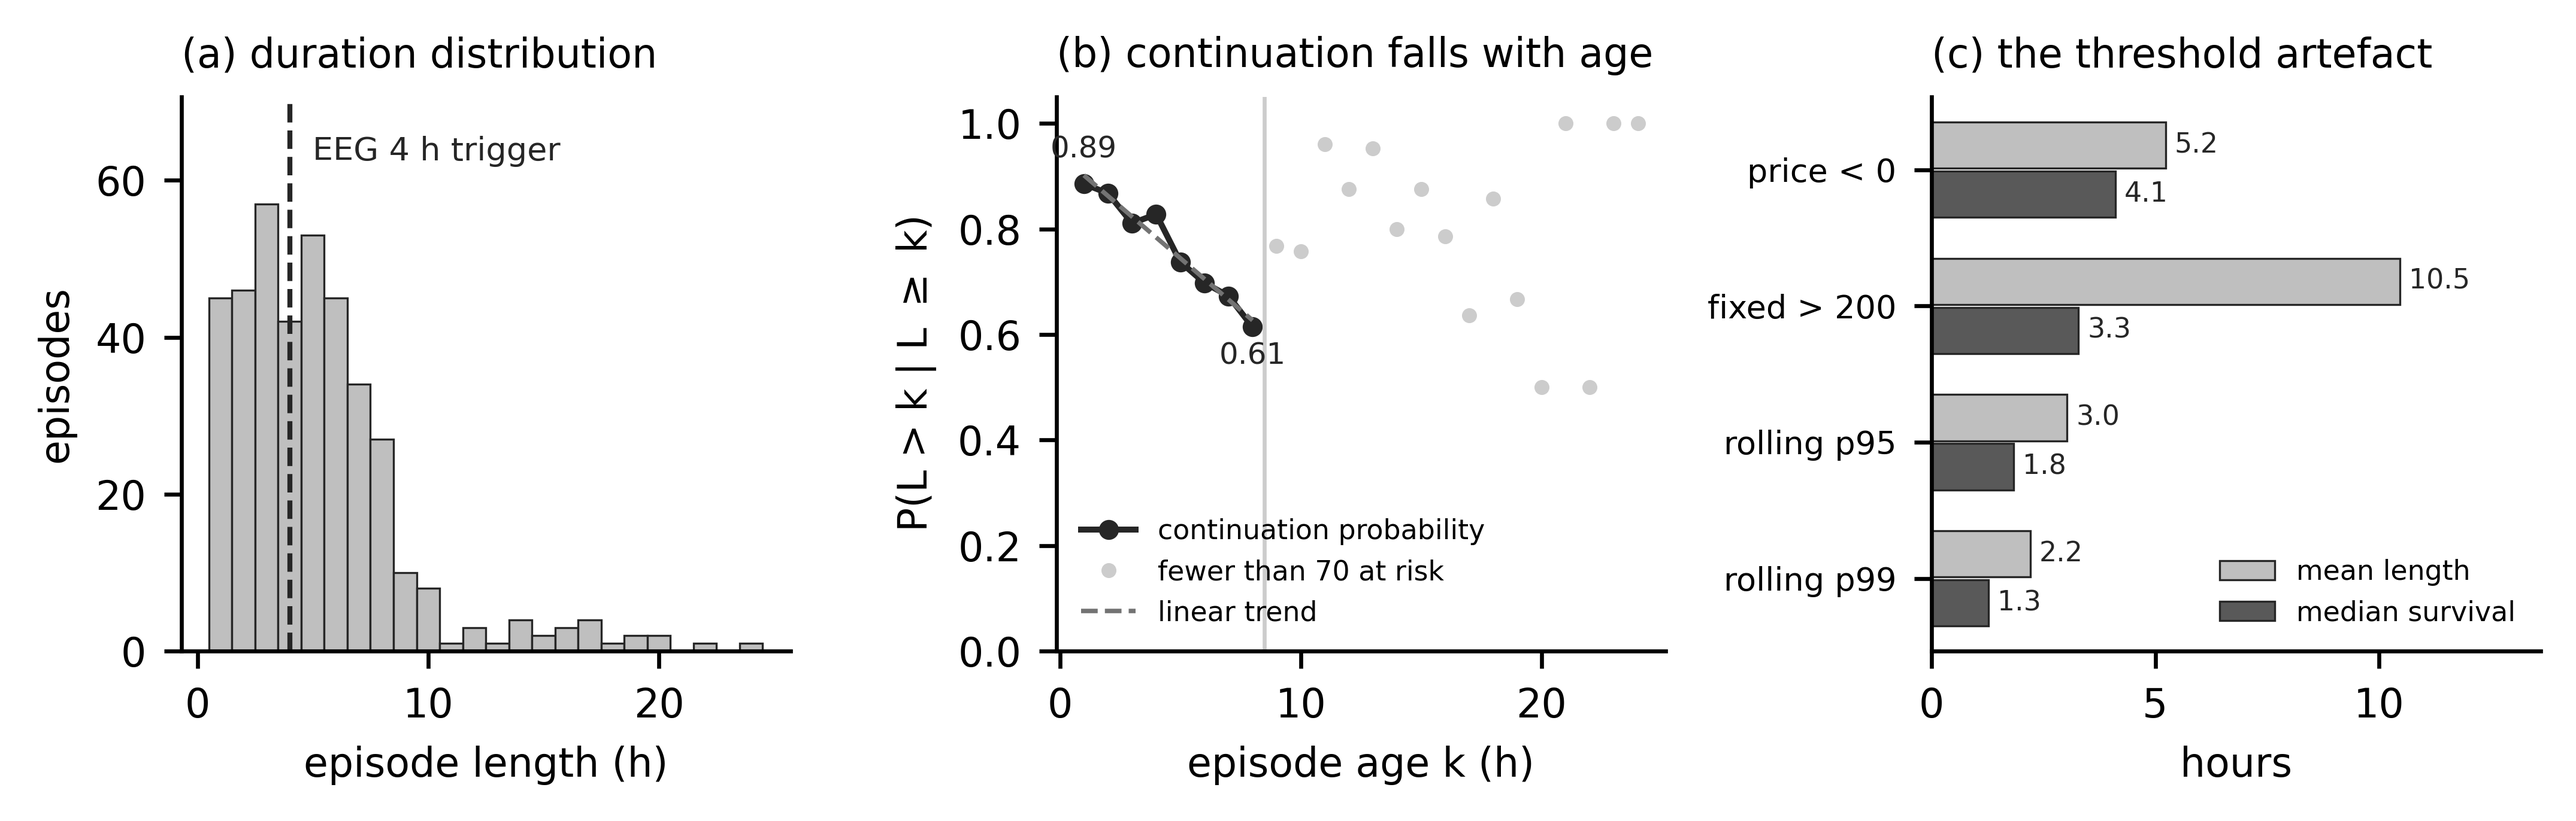
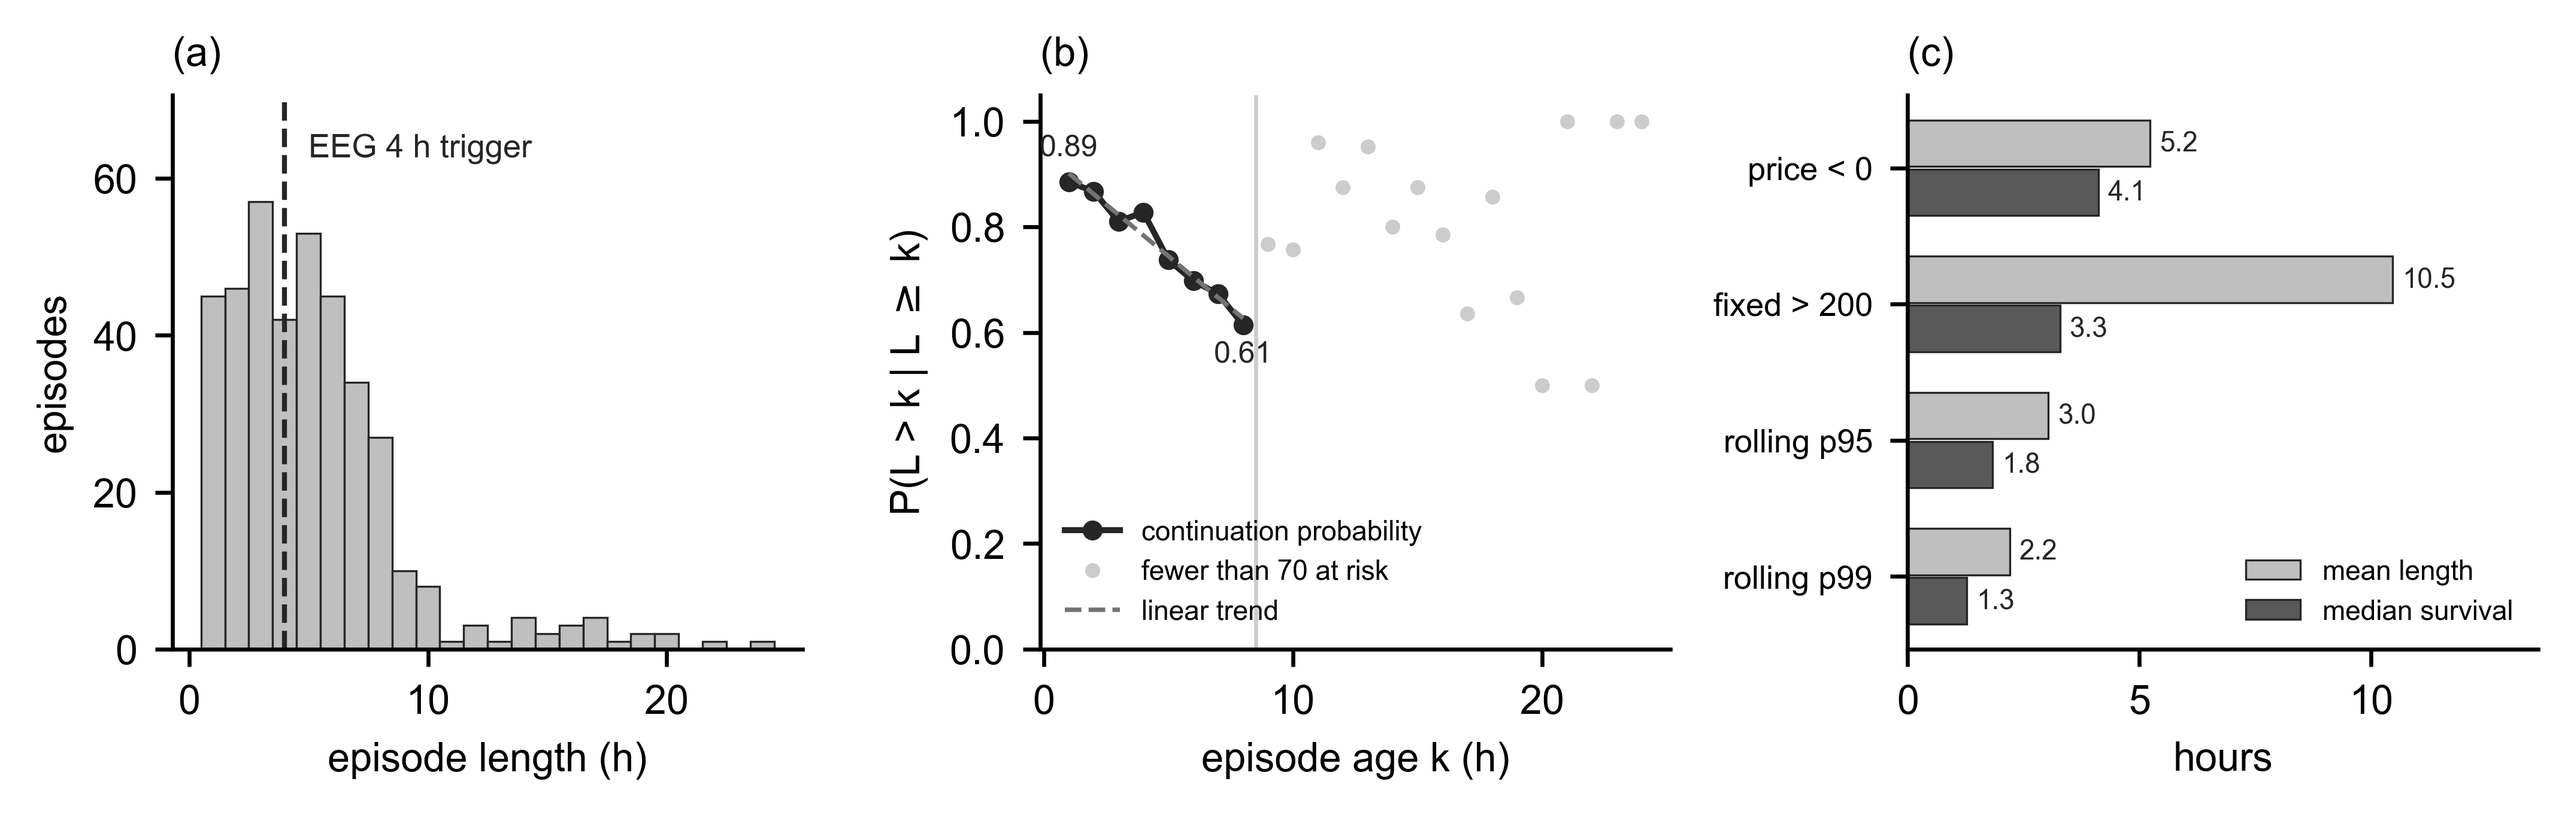
Figures: Arial, and no titles above the plots
Two requirements from the journal's guide that the figures did not meet.

The guide asks authors to "aim to use the following fonts in your illustrations: Arial, Courier,
Times New Roman, Symbol". The figures were in matplotlib's default DejaVu Sans, which is none of
them, because no font family had been set at all.

The guide also says "do not add titles above the plots (as can be done with Matlab for instance).
Titles are already given in the caption text". Figure 2 carried descriptive panel titles --
"(a) duration distribution", "(b) continuation falls with age", "(c) the threshold artefact" --
which duplicated the caption. They are now bare (a), (b), (c) identifiers, kept only because the
caption refers to the panels by letter. Nothing is lost: the caption already described each panel
in full.

No number changes. The continuation probability still runs 0.885 to 0.614 over the supported
range with a slope of -0.0392 per hour, matching Table 3.

diff --git a/experiments/12_figures/make_figures.py b/experiments/12_figures/make_figures.py
@@ -24,7 +24,11 @@ OUT = PROJECT_ROOT / "outputs" / "figures"
 OUT.mkdir(parents=True, exist_ok=True)
 # 600 dpi on save: Elsevier asks for 600 dpi for combination line/halftone art. The on-screen
 # figure dpi is left low so the layout is composed at the printed size rather than scaled up.
-plt.rcParams.update({"font.size": 8, "axes.spines.top": False, "axes.spines.right": False,
+# The guide names Arial, Courier, Times New Roman and Symbol as the fonts to aim for in
+# illustrations; matplotlib's default DejaVu Sans is none of them.
+plt.rcParams.update({"font.size": 8, "font.family": "sans-serif",
+                     "font.sans-serif": ["Arial", "Helvetica", "DejaVu Sans"],
+                     "axes.spines.top": False, "axes.spines.right": False,
                      "figure.dpi": 200, "savefig.dpi": 600, "savefig.bbox": "tight"})
 GREY, DARK, MID = "0.75", "0.15", "0.45"
 
@@ -77,7 +81,9 @@ def fig2_episodes(d: pd.DataFrame):
     ax.annotate("EEG 4 h trigger", (5.0, ax.get_ylim()[1] * .93), fontsize=6.5, color=DARK,
                 ha="left", va="top")
     ax.set_xlabel("episode length (h)"); ax.set_ylabel("episodes")
-    ax.set_title("(a) duration distribution", fontsize=8, loc="left")
+    # bare panel identifiers only: the guide asks for no titles above the plots, since the
+    # caption carries the description. The letters stay because the caption refers to them.
+    ax.set_title("(a)", fontsize=8, loc="left")
 
     # (b) CONTINUATION PROBABILITY c(k) = P(L > k | L >= k). Two things this panel must not do.
     # It must not call c(k) a hazard: in survival terminology the hazard is the probability of
@@ -109,7 +115,7 @@ def fig2_episodes(d: pd.DataFrame):
     ax.set_ylim(0, 1.05); ax.set_xlabel("episode age k (h)")
     ax.set_ylabel("P(L > k | L $\\geq$ k)")
     ax.legend(fontsize=5.5, frameon=False, loc="lower left")
-    ax.set_title("(b) continuation falls with age", fontsize=8, loc="left")
+    ax.set_title("(b)", fontsize=8, loc="left")
     print(f"  continuation probability shown to k={kmax} (at risk {at_risk[ok][-1]}); "
           f"{cont[0]:.3f} -> {cont[kmax-1]:.3f}, slope {b:+.4f}/h")
 
@@ -142,7 +148,7 @@ def fig2_episodes(d: pd.DataFrame):
         ax.annotate(f"{md:.1f}", (md + .2, yi - .18), va="center", fontsize=5.5, color=DARK)
     ax.set_xlabel("hours")
     ax.legend(fontsize=5.5, frameon=False, loc="lower right")
-    ax.set_title("(c) the threshold artefact", fontsize=8, loc="left")
+    ax.set_title("(c)", fontsize=8, loc="left")
     ax.set_xlim(0, max(means) * 1.3)
 
     fig.tight_layout()
